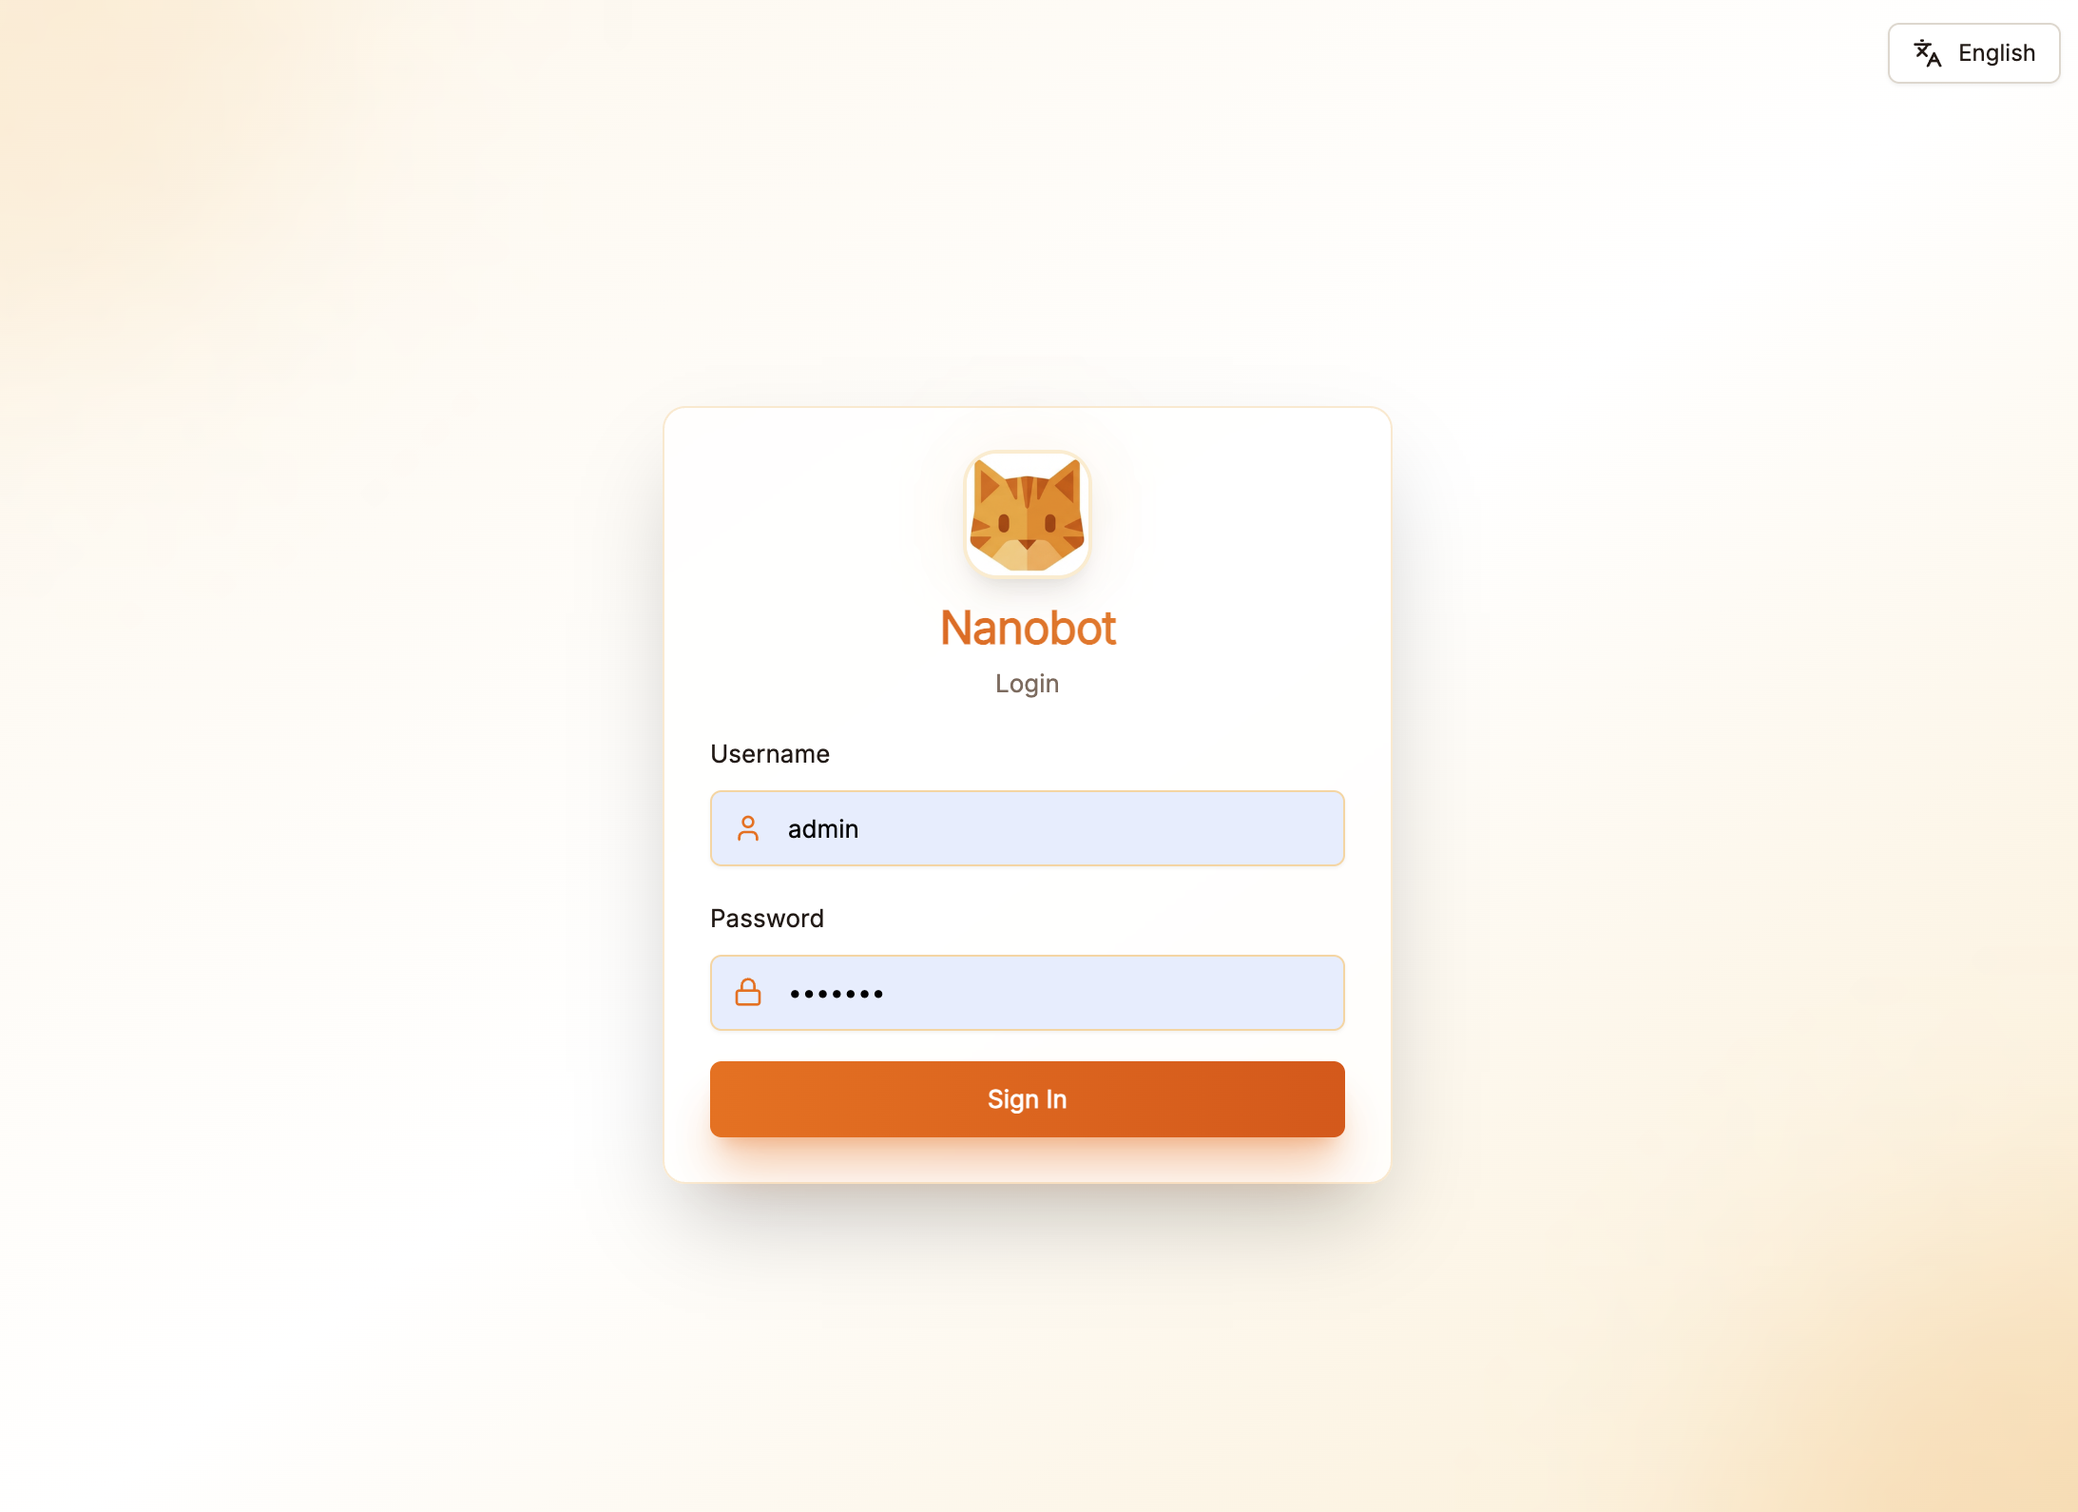
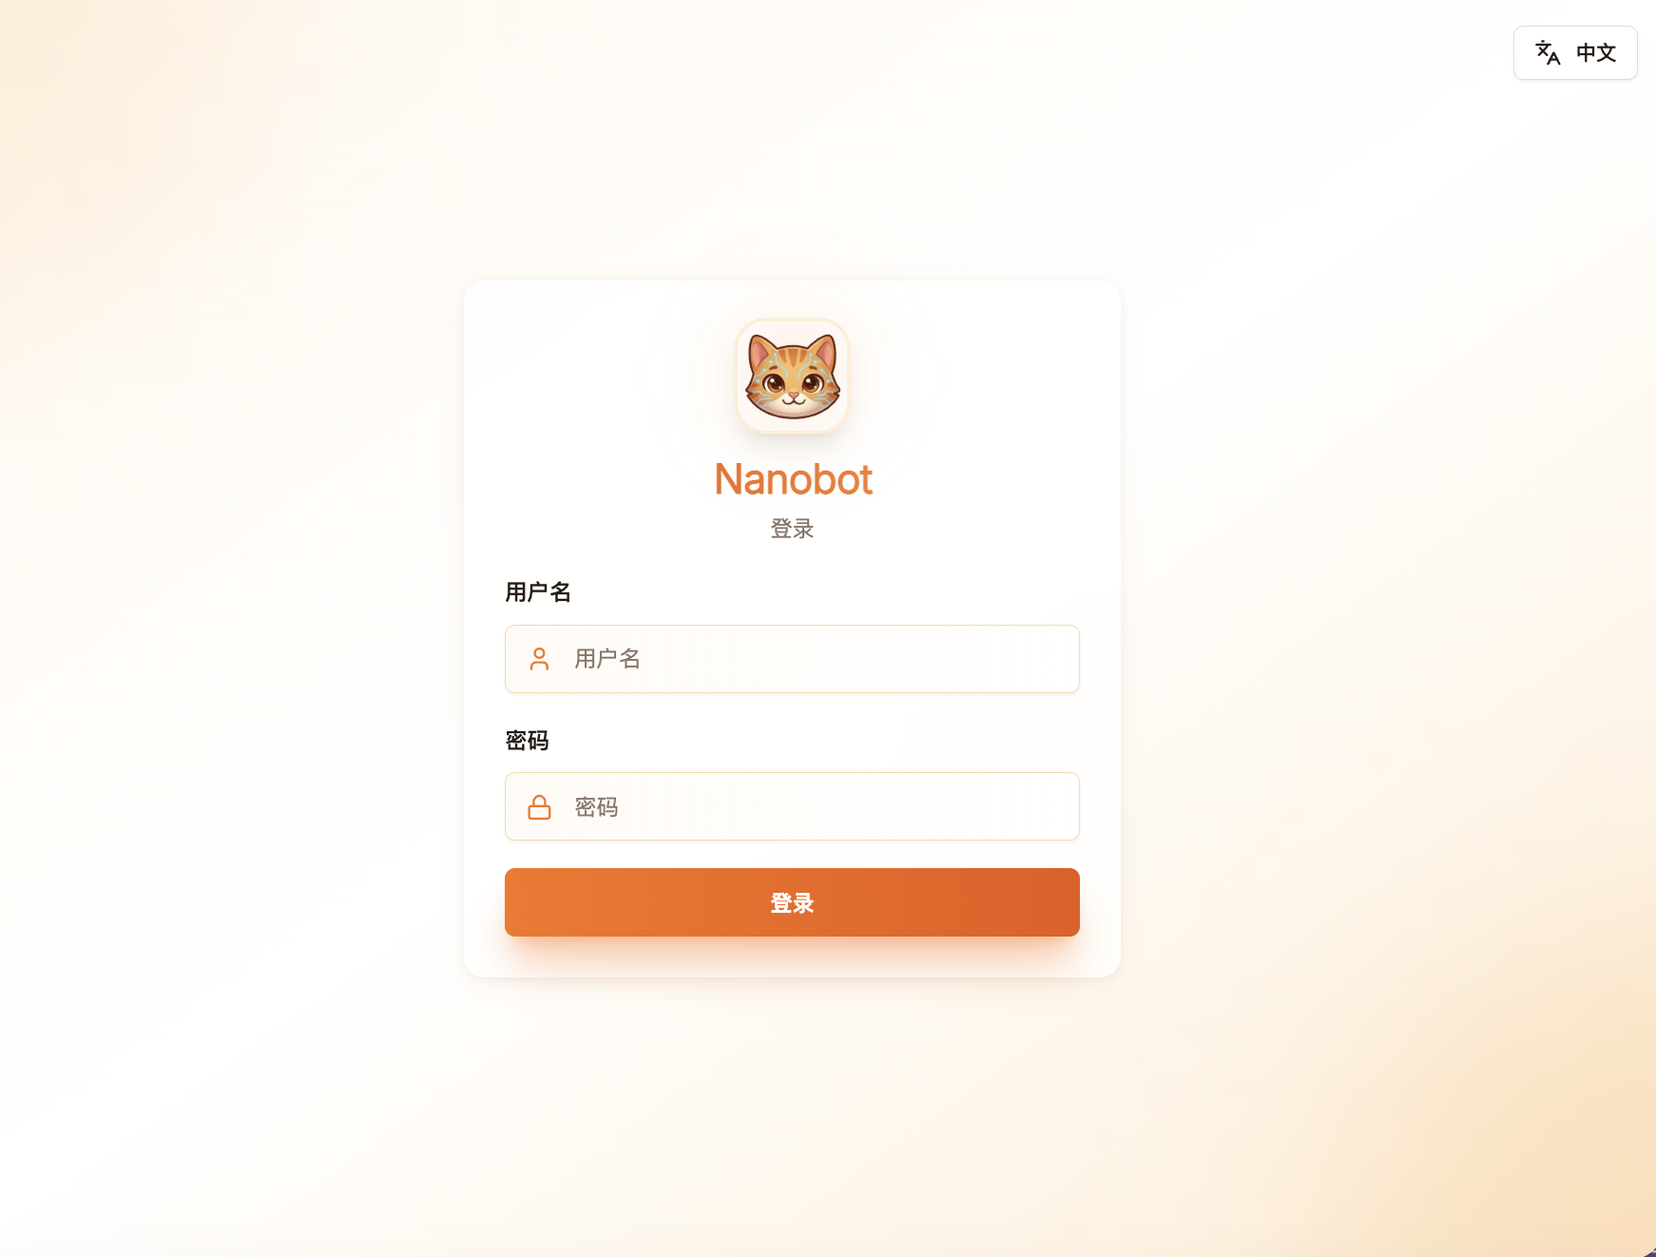
feat: add mobile UI, i18n, dark mode; change default port to 18780; update docs
Port change:
- Change default WebUI port from 8080 to 18780
  (webui/__main__.py, webui/cli.py, Dockerfile, docker-compose.yml,
   README.md, README_zh.md)

Documentation:
- Rewrite README Architecture section to reflect actual codebase
  (add cli.py, patches/ dir, middleware.py, provider_meta.py,
   openai_proxy.py; expand frontend listing with hooks/stores/lib/i18n)
- Add PWA, mobile-ready, dark mode, i18n rows to Features/功能特性 tables
- Correct dark mode description: UI is light/dark 2-way toggle;
  system preference applied automatically on first visit via ThemeProvider
- Split Screenshots/界面预览 section into Desktop and Mobile subsections
- Add docs/mobile_dashboard.png, docs/mobile_chat.png, docs/mobile_session.jpg

diff --git a/webui/cli.py b/webui/cli.py
@@ -25,7 +25,6 @@ import typer
 
 # ── Grab the canonical nanobot Typer app ─────────────────────────────────────
 from nanobot.cli.commands import app
-import nanobot.cli.commands as _nanobot_commands
 
 # ── Daemon / process-tracking helpers ────────────────────────────────────────
 
@@ -138,7 +137,7 @@ app.add_typer(webui_app, name="webui")
 @webui_app.callback(invoke_without_command=True)
 def webui(
     ctx: typer.Context,
-    port: int = typer.Option(8080, "--port", "-p", help="WebUI HTTP port (default: 8080)"),
+    port: int = typer.Option(18780, "--port", "-p", help="WebUI HTTP port (default: 18780)"),
     gateway_port: Optional[int] = typer.Option(
         None, "--gateway-port", "-g",
         help="nanobot gateway port (default: read from ~/.nanobot/config.json)",
@@ -406,7 +405,7 @@ def _make_standalone_parser():
         prog="nanobot-webui",
         description="nanobot WebUI — start WebUI + gateway in one process",
     )
-    p.add_argument("--port", type=int, default=8080, help="WebUI port (default: 8080)")
+    p.add_argument("--port", type=int, default=18780, help="WebUI port (default: 18780)")
     p.add_argument("--gateway-port", type=int, default=None, dest="gateway_port",
                    help="nanobot gateway port (default: from config)")
     p.add_argument("--host", default="0.0.0.0", help="Bind address (default: 0.0.0.0)")

diff --git a/webui/__main__.py b/webui/__main__.py
@@ -82,7 +82,7 @@ def _make_provider(config):
 
 
 async def main(
-    web_port: int = 8080,
+    web_port: int = 18780,
     gateway_port: int | None = None,
     web_host: str = "0.0.0.0",
     workspace: str | None = None,
@@ -271,7 +271,7 @@ def main_cli() -> None:
         prog="nanobot-webui",
         description="nanobot WebUI — start WebUI + gateway in one process",
     )
-    parser.add_argument("--port", type=int, default=8080, help="WebUI port (default: 8080)")
+    parser.add_argument("--port", type=int, default=18780, help="WebUI port (default: 18780)")
     parser.add_argument("--gateway-port", type=int, default=None, dest="gateway_port",
                         help="nanobot gateway port (default: from config)")
     parser.add_argument("--host", default="0.0.0.0", help="Bind address (default: 0.0.0.0)")

diff --git a/README.md b/README.md
@@ -31,9 +31,17 @@ Provides a full-featured UI to configure, converse with, and manage your nanobot
 
 ## Screenshots
 
+**Desktop**
+
 | Login | Dashboard | Chat |
 |-------|-----------|------|
 | ![Login](docs/login.png) | ![Dashboard](docs/dashboard.png) | ![Chat](docs/session.png) |
+
+**Mobile**
+
+| Dashboard | Chat | Session |
+|-----------|------|---------|
+| ![Mobile Dashboard](docs/mobile_dashboard.png) | ![Mobile Chat](docs/mobile_chat.png) | ![Mobile Session](docs/mobile_session.jpg) |
 
 ---
 
@@ -50,6 +58,10 @@ Provides a full-featured UI to configure, converse with, and manage your nanobot
 | **Cron Jobs** | Schedule, edit, and toggle recurring tasks |
 | **Agent Settings** | Model, temperature, max tokens, memory window, workspace path, etc. |
 | **Users** | Multi-user management with `admin` / `user` roles |
+| **PWA** | Installable as a desktop / home-screen app; auto-detects updates and prompts a one-click reload |
+| **Mobile-ready** | Responsive layout with dedicated iOS Safari keyboard fix to keep the input always visible |
+| **Dark mode** | One-click light / dark toggle; defaults to system preference on first visit; dark palette uses warm charcoal tones to match the brand colour |
+| **i18n** | Built-in English, Chinese, and Japanese UI languages with live switching |
 
 ---
 
@@ -75,7 +87,7 @@ nanobot webui --port 9090
 nanobot webui --daemon
 ```
 
-Open **http://localhost:8080** — default credentials: **admin / nanobot** — change on first login.
+Open **http://localhost:18780** — default credentials: **admin / nanobot** — change on first login.
 
 ---
 
@@ -95,7 +107,7 @@ services:
     volumes:
       - ~/.nanobot-webui:/root/.nanobot   # config & data persistence
     ports:
-      - "8080:8080"    # WebUI
+      - "18780:18780"    # WebUI
       - "18790:18790"  # nanobot gateway (optional, for IM channel webhooks)
     restart: unless-stopped
 ```
@@ -113,7 +125,7 @@ docker compose logs -f
 docker compose down
 ```
 
-Open **http://localhost:8080** — default credentials: **admin / nanobot**.
+Open **http://localhost:18780** — default credentials: **admin / nanobot**.
 
 > **Data directory:** all config, sessions, and workspace files are stored in `~/.nanobot-webui` on the host (mapped to `/root/.nanobot` inside the container).
 
@@ -129,8 +141,8 @@ docker build -t nanobot-webui .
 # Run
 docker run -d \
   --name nanobot-webui \
-  -p 8080:8080 \
-  -v ~/.nanobot-webui:/root/.nanobot \
+  -p 18780:18780 \
+  -v ~/.nanobot:/root/.nanobot \
   --restart unless-stopped \
   nanobot-webui
 ```
@@ -160,7 +172,7 @@ Installing `nanobot-webui` extends the `nanobot` command with the following subc
 Usage: nanobot webui [OPTIONS] [COMMAND]
 
 Options:
-  -p, --port INTEGER        WebUI HTTP port  (default: 8080)
+  -p, --port INTEGER        WebUI HTTP port  (default: 18780)
   -g, --gateway-port INT    nanobot gateway port  (default: from config)
       --host TEXT           Bind address  (default: 0.0.0.0)
   -w, --workspace PATH      Override workspace directory
@@ -213,7 +225,7 @@ Example output:
 ```
 🐈 nanobot Status
 
-WebUI: ✓ running (PID 12345 • http://localhost:8080)
+WebUI: ✓ running (PID 12345 • http://localhost:18780)
 Log  : /home/user/.nanobot/webui.log
 
 Config: /home/user/.nanobot/config.json ✓
@@ -237,12 +249,12 @@ cd nanobot-webui
 pip install -e .
 
 # 2. Start the backend
-nanobot webui                        # API + static on :8080
+nanobot webui                        # API + static on :18780
 
 # 3. Start the frontend dev server (separate terminal)
 cd web
 bun install
-bun dev                              # http://localhost:5173  (proxies /api → :8080)
+bun dev                              # http://localhost:5173  (proxies /api → :18780)
 ```
 
 To produce a production build:
@@ -263,35 +275,73 @@ nanobot-webui/
 ├── webui/                      # Python package (importable as `webui`)
 │   ├── __init__.py
 │   ├── __main__.py             # Entry point: python -m webui
+│   ├── cli.py                  # Typer sub-command injected into nanobot CLI
 │   ├── web/
 │   │   └── dist/               # Built React assets (generated by bun run build)
-│   └── api/                    # FastAPI backend
-│       ├── auth.py             # JWT + bcrypt helpers
-│       ├── users.py            # UserStore  (~/.nanobot/webui_users.json)
-│       ├── deps.py             # FastAPI dependency injection
-│       ├── gateway.py          # ServiceContainer + server lifecycle
-│       ├── server.py           # FastAPI app factory (static serving, SPA fallback)
-│       ├── channel_ext.py      # ExtendedChannelManager (non-invasive subclass)
-│       ├── models.py           # Pydantic response models
-│       └── routes/             # One file per domain
-│           ├── auth.py         #   POST /api/auth/login|register|change-password
-│           ├── channels.py     #   GET|PATCH /api/channels
-│           ├── config.py       #   GET|PATCH /api/config
-│           ├── cron.py         #   CRUD /api/cron
-│           ├── mcp.py          #   GET|PATCH /api/mcp
-│           ├── providers.py    #   GET|PATCH /api/providers
-│           ├── sessions.py     #   GET|DELETE /api/sessions
-│           ├── skills.py       #   GET|POST /api/skills
-│           ├── users.py        #   CRUD /api/users  (admin only)
-│           └── ws.py           #   WebSocket /ws/chat
+│   ├── api/                    # FastAPI backend
+│   │   ├── auth.py             # JWT + bcrypt helpers
+│   │   ├── users.py            # UserStore  (~/.nanobot/webui_users.json)
+│   │   ├── deps.py             # FastAPI dependency injection
+│   │   ├── gateway.py          # ServiceContainer + server lifecycle
+│   │   ├── server.py           # FastAPI app factory (static serving, SPA fallback)
+│   │   ├── channel_ext.py      # ExtendedChannelManager (non-invasive subclass)
+│   │   ├── middleware.py       # Request middleware (logging, CORS, etc.)
+│   │   ├── models.py           # Pydantic response models
+│   │   ├── provider_meta.py    # Provider metadata & capability registry
+│   │   └── routes/             # One file per domain
+│   │       ├── auth.py         #   POST /api/auth/login|register|change-password
+│   │       ├── channels.py     #   GET|PATCH /api/channels
+│   │       ├── config.py       #   GET|PATCH /api/config
+│   │       ├── cron.py         #   CRUD /api/cron
+│   │       ├── mcp.py          #   GET|PATCH /api/mcp
+│   │       ├── openai_proxy.py #   OpenAI-compatible proxy /api/v1/...
+│   │       ├── providers.py    #   GET|PATCH /api/providers
+│   │       ├── sessions.py     #   GET|DELETE /api/sessions
+│   │       ├── skills.py       #   GET|POST /api/skills
+│   │       ├── users.py        #   CRUD /api/users  (admin only)
+│   │       └── ws.py           #   WebSocket /ws/chat
+│   └── patches/                # Minimal runtime monkey-patches (non-invasive)
+│       ├── channels.py         #   Empty allow_from → allow all
+│       ├── provider.py         #   Provider hot-reload support
+│       ├── session.py          #   Session persistence tweaks
+│       ├── skills.py           #   Skills reload helper
+│       └── subagent.py         #   Sub-agent routing fix
 ├── web/                        # React 18 + TypeScript frontend source
 │   ├── src/
 │   │   ├── pages/              # One component per route
-│   │   ├── components/         # Layout, chat, shared UI
+│   │   │   ├── Chat.tsx        #   Real-time chat page
+│   │   │   ├── Channels.tsx    #   IM channel configuration
+│   │   │   ├── CronJobs.tsx    #   Scheduled tasks
+│   │   │   ├── Dashboard.tsx   #   Overview & stats
+│   │   │   ├── Login.tsx       #   Authentication
+│   │   │   ├── MCPServers.tsx  #   MCP tool servers
+│   │   │   ├── Settings.tsx    #   Agent / provider / workspace settings
+│   │   │   ├── Skills.tsx      #   Skill management
+│   │   │   ├── SystemConfig.tsx#   System-level configuration
+│   │   │   ├── Tools.tsx       #   Available tools browser
+│   │   │   └── Users.tsx       #   User management (admin)
+│   │   ├── components/         # Layout, chat, shared UI components
 │   │   ├── hooks/              # TanStack Query data hooks
-│   │   ├── stores/             # Zustand stores (auth, chat)
-│   │   ├── lib/                # axios instance, WS manager, utils
-│   │   └── i18n/               # zh / en JSON translation files
+│   │   │   ├── useChannels.ts
+│   │   │   ├── useConfig.ts
+│   │   │   ├── useCron.ts
+│   │   │   ├── useIOSInputFix.ts
+│   │   │   ├── useIsMobile.ts
+│   │   │   ├── useMCP.ts
+│   │   │   ├── useProviders.ts
+│   │   │   ├── useSessions.ts
+│   │   │   └── useSkills.ts
+│   │   ├── stores/             # Zustand stores
+│   │   │   ├── authStore.ts    #   Auth state + JWT persistence
+│   │   │   └── chatStore.ts    #   Chat session state
+│   │   ├── lib/                # Shared utilities
+│   │   │   ├── api.ts          #   axios instance + request helpers
+│   │   │   ├── ws.ts           #   WebSocket manager
+│   │   │   ├── channelIcons.ts #   Channel icon mapping
+│   │   │   └── utils.ts        #   General utilities
+│   │   ├── i18n/               # Internationalisation
+│   │   │   └── locales/        #   zh.json / en.json / ja.json
+│   │   └── theme/              # next-themes configuration
 │   ├── eslint.config.js
 │   └── package.json
 ├── Dockerfile                  # Multi-stage: bun build → python runtime
@@ -300,7 +350,7 @@ nanobot-webui/
 └── setup.py                    # Build hook: runs bun run build, copies dist into webui/
 ```
 
-**Design principle:** the backend is entirely non-invasive — it imports nanobot libraries but never patches their source. Runtime monkey-patches (applied in `__main__.py`) are limited to quality-of-life tweaks (e.g. treating an empty `allow_from` list as "allow all").
+**Design principle:** the backend is entirely non-invasive — it imports nanobot libraries but never patches their source. Runtime monkey-patches (applied in `webui/patches/`) are minimal and limited to quality-of-life tweaks (e.g. treating an empty `allow_from` list as "allow all"). All patches are applied once at startup before any nanobot internals are initialised.
 
 ---
 

diff --git a/README_zh.md b/README_zh.md
@@ -30,9 +30,17 @@
 
 ## 界面预览
 
+**桌面端**
+
 | 登录页 | 仪表板 | 对话 |
 |--------|--------|------|
 | ![登录页](docs/login.png) | ![仪表板](docs/dashboard.png) | ![对话](docs/session.png) |
+
+**移动端**
+
+| 仪表板 | 对话 | 会话 |
+|--------|------|------|
+| ![移动端仪表板](docs/mobile_dashboard.png) | ![移动端对话](docs/mobile_chat.png) | ![移动端会话](docs/mobile_session.jpg) |
 
 ---
 
@@ -49,6 +57,10 @@
 | **定时任务** | 新建、编辑、启停定时任务 |
 | **代理设置** | 模型、温度、最大 Token、记忆窗口、工作区路径等 |
 | **用户管理** | 多用户管理，支持 `admin` / `user` 两种角色 |
+| **PWA 支持** | 可安装为桌面 / 主屏幕应用；后台自动检测新版本并提示一键更新 |
+| **移动端适配** | 响应式布局，针对 iOS Safari 键盘弹出做专项适配，确保输入框始终可见 |
+| **深色模式** | 亮色 / 暗色一键切换，首次访问自动跟随系统偏好；暗色方案采用暖色调以匹配品牌色 |
+| **多语言（i18n）** | 内置中文、英文、日文三套界面语言，可实时切换 |
 
 ---
 
@@ -73,7 +85,7 @@ nanobot webui --port 9090
 nanobot webui --daemon
 ```
 
-浏览器访问 **http://localhost:8080**，默认账号：**admin / nanobot**，首次登录后请立即修改密码。
+浏览器访问 **http://localhost:18780**，默认账号：**admin / nanobot**，首次登录后请立即修改密码。
 
 ---
 
@@ -91,9 +103,9 @@ services:
     image: kangkang223/nanobot-webui:latest
     container_name: nanobot-webui
     volumes:
-      - ~/.nanobot-webui:/root/.nanobot   # 配置与数据持久化
+      - ~/.nanobot:/root/.nanobot   # 配置与数据持久化
     ports:
-      - "8080:8080"    # WebUI
+      - "18780:18780"    # WebUI
       - "18790:18790"  # nanobot 网关（可选，IM 通道 Webhook 回调用）
     restart: unless-stopped
 ```
@@ -111,7 +123,7 @@ docker compose logs -f
 docker compose down
 ```
 
-浏览器访问 **http://localhost:8080**，默认账号：**admin / nanobot**，请在首次登录后立即修改密码。
+浏览器访问 **http://localhost:18780**，默认账号：**admin / nanobot**，请在首次登录后立即修改密码。
 
 > **数据目录：** 所有配置、会话及工作区文件保存在宿主机的 `~/.nanobot-webui` 目录（映射到容器内的 `/root/.nanobot`）。
 
@@ -127,7 +139,7 @@ docker build -t nanobot-webui .
 # 运行
 docker run -d \
   --name nanobot-webui \
-  -p 8080:8080 \
+  -p 18780:18780 \
   -v ~/.nanobot-webui:/root/.nanobot \
   --restart unless-stopped \
   nanobot-webui
@@ -158,7 +170,7 @@ make release-dated  # 构建并推送 :YYYY-MM-DD + :latest（多架构）
 用法: nanobot webui [OPTIONS] [COMMAND]
 
 选项:
-  -p, --port INTEGER        WebUI 端口（默认: 8080）
+  -p, --port INTEGER        WebUI 端口（默认: 18780）
   -g, --gateway-port INT    nanobot 网关端口（默认: 读取配置文件）
       --host TEXT           绑定地址（默认: 0.0.0.0）
   -w, --workspace PATH      覆盖工作区目录
@@ -211,7 +223,7 @@ nanobot status  # 显示 WebUI 进程状态 + nanobot 配置信息
 ```
 🐈 nanobot Status
 
-WebUI: ✓ running (PID 12345 • http://localhost:8080)
+WebUI: ✓ running (PID 12345 • http://localhost:18780)
 Log  : /Users/xxx/.nanobot/webui.log
 
 Config: /Users/xxx/.nanobot/config.json ✓
@@ -235,12 +247,12 @@ cd nanobot-webui
 pip install -e .
 
 # 2. 启动后端
-nanobot webui                        # API + 静态文件服务于 :8080
+nanobot webui                        # API + 静态文件服务于 :18780
 
 # 3. 启动前端开发服务器（另开终端）
 cd web
 bun install
-bun dev                              # http://localhost:5173（自动代理 /api → :8080）
+bun dev                              # http://localhost:5173（自动代理 /api → :18780）
 ```
 
 生产构建：
